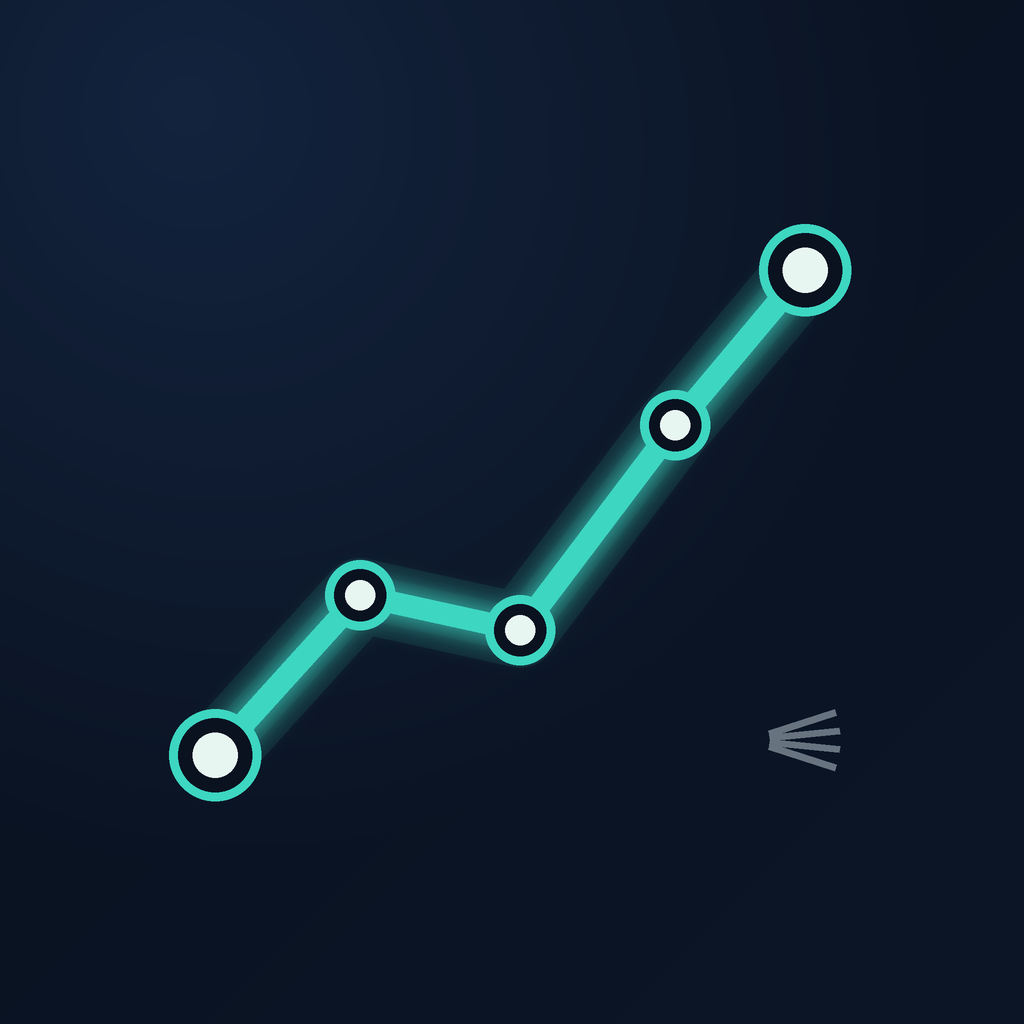
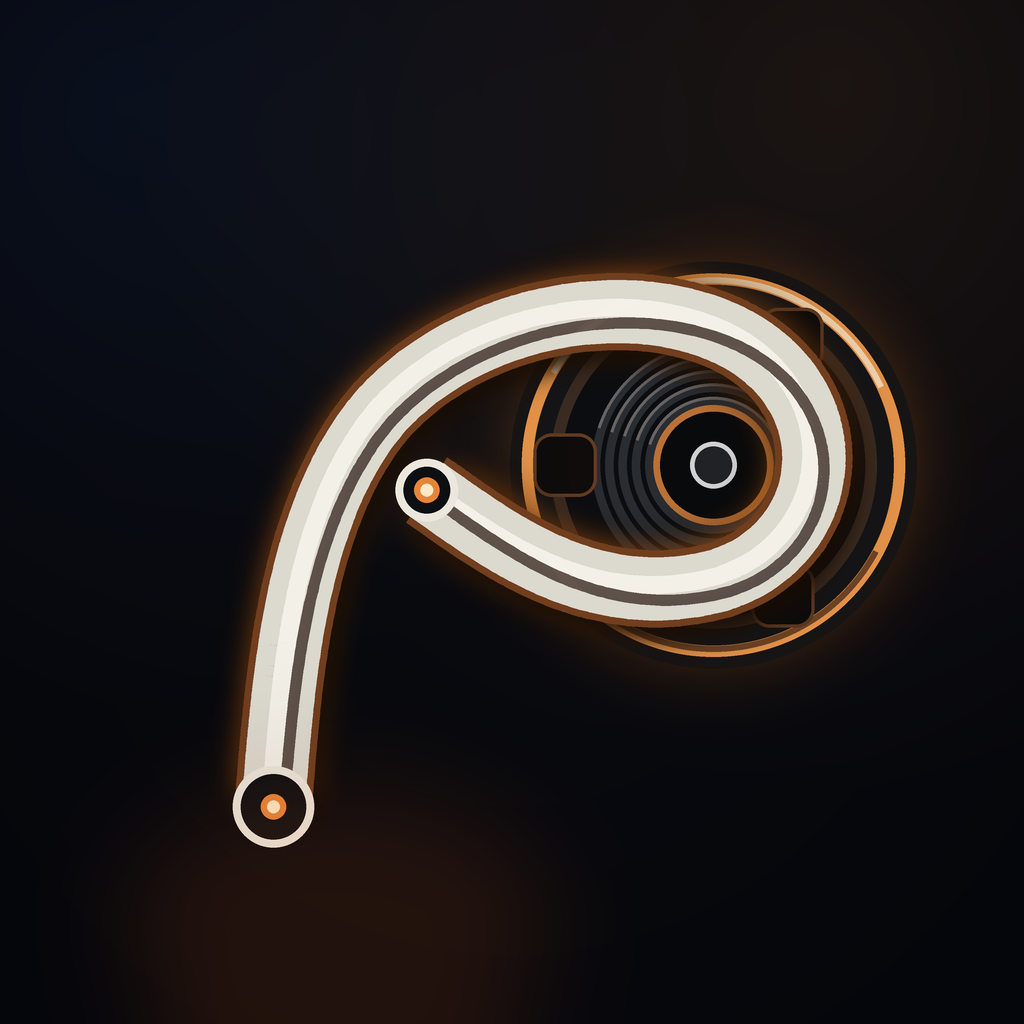
Align web branding with premium identity

diff --git a/site/styles.css b/site/styles.css
@@ -1,1 +1,1 @@
-:root{--bg:#0b1115;--panel:#111a20;--line:#24323a;--text:#f3f7f8;--muted:#9fb0b8;--accent:#39d4c2;--accent2:#8bf0e2;--max:1040px}*{box-sizing:border-box}html{scroll-behavior:smooth}body{margin:0;font-family:-apple-system,BlinkMacSystemFont,"SF Pro Text","Segoe UI",sans-serif;background:radial-gradient(circle at 80% 0,#16333a 0,transparent 34%),var(--bg);color:var(--text);line-height:1.58}.wrap{width:min(var(--max),calc(100% - 40px));margin:auto}.nav{display:flex;align-items:center;justify-content:space-between;padding:24px 0}.brand{display:flex;align-items:center;gap:12px;font-weight:750;letter-spacing:-.02em}.brand img{width:42px;height:42px;border-radius:11px}.navlinks{display:flex;gap:18px;flex-wrap:wrap}.nav a,.footer a,.legal a{color:var(--muted);text-decoration:none}.nav a:hover,.footer a:hover,.legal a:hover{color:var(--text)}.hero{padding:72px 0 82px;display:grid;grid-template-columns:1.2fr .8fr;gap:56px;align-items:center}.eyebrow{color:var(--accent2);font-weight:700;text-transform:uppercase;font-size:.78rem;letter-spacing:.14em}.hero h1{font-size:clamp(3rem,8vw,6.4rem);line-height:.9;letter-spacing:-.065em;margin:.2em 0}.hero p{font-size:1.18rem;color:var(--muted);max-width:680px}.pill{display:inline-flex;border:1px solid var(--line);background:#111d22;padding:10px 14px;border-radius:999px;color:#c7d7dc;font-size:.92rem;margin-top:14px}.device{aspect-ratio:4/5;border:1px solid #2b414a;border-radius:38px;background:linear-gradient(160deg,#14242b,#0b1115);padding:16px;box-shadow:0 30px 80px #0008}.screen{height:100%;border-radius:27px;background:linear-gradient(#142027,#0e1519);border:1px solid #26363e;padding:28px;display:flex;flex-direction:column;justify-content:space-between}.route{display:flex;gap:12px;align-items:center}.dot{width:14px;height:14px;border:3px solid var(--accent);border-radius:50%;box-shadow:0 0 20px #39d4c266}.segment{height:3px;flex:1;background:linear-gradient(90deg,var(--accent),#4e7b80);border-radius:8px}.metric strong{display:block;font-size:2.8rem;letter-spacing:-.05em}.metric span{color:var(--muted)}.grid{display:grid;grid-template-columns:repeat(3,1fr);gap:18px;padding:20px 0 70px}.card{background:linear-gradient(180deg,#111a20,#0d1519);border:1px solid var(--line);border-radius:22px;padding:26px}.card h2{margin:.2em 0 .45em;font-size:1.18rem}.card p{margin:0;color:var(--muted)}.section{padding:70px 0;border-top:1px solid var(--line)}.section h2{font-size:clamp(2rem,4vw,3.4rem);letter-spacing:-.045em;margin:0 0 18px}.section p{max-width:780px;color:var(--muted)}.footer{border-top:1px solid var(--line);padding:30px 0 46px;color:var(--muted);display:flex;justify-content:space-between;gap:18px;flex-wrap:wrap}.legal{padding:24px 0 70px;max-width:820px}.legal h1{font-size:clamp(2.2rem,5vw,4.4rem);letter-spacing:-.05em;line-height:1;margin:44px 0 20px}.legal h2{margin-top:34px}.legal p,.legal li{color:#bac8cd}.notice{background:#111d22;border:1px solid #2b414a;border-left:3px solid var(--accent);border-radius:14px;padding:18px 20px;margin:28px 0}.lang{font-size:.9rem;color:var(--muted)}hr{border:0;border-top:1px solid var(--line);margin:44px 0}@media(max-width:760px){.hero{grid-template-columns:1fr;padding-top:38px}.device{max-width:420px}.grid{grid-template-columns:1fr}.nav{align-items:flex-start}.navlinks{justify-content:flex-end;font-size:.9rem}.hero h1{font-size:3.6rem}}
+:root{--bg:#08090c;--panel:#121217;--line:#302a26;--text:#f7f4ef;--muted:#aca59d;--accent:#f09a4a;--accent2:#ffd2a2;--max:1040px}*{box-sizing:border-box}html{scroll-behavior:smooth}body{margin:0;font-family:-apple-system,BlinkMacSystemFont,"SF Pro Text","Segoe UI",sans-serif;background:radial-gradient(circle at 80% 0,#3a2418 0,transparent 36%),var(--bg);color:var(--text);line-height:1.58}.wrap{width:min(var(--max),calc(100% - 40px));margin:auto}.nav{display:flex;align-items:center;justify-content:space-between;padding:24px 0}.brand{display:flex;align-items:center;gap:12px;font-weight:750;letter-spacing:-.02em}.brand img{width:42px;height:42px;border-radius:11px}.navlinks{display:flex;gap:18px;flex-wrap:wrap}.nav a,.footer a,.legal a{color:var(--muted);text-decoration:none}.nav a:hover,.footer a:hover,.legal a:hover{color:var(--text)}.hero{padding:72px 0 82px;display:grid;grid-template-columns:1.2fr .8fr;gap:56px;align-items:center}.eyebrow{color:var(--accent2);font-weight:700;text-transform:uppercase;font-size:.78rem;letter-spacing:.14em}.hero h1{font-size:clamp(3rem,8vw,6.4rem);line-height:.9;letter-spacing:-.065em;margin:.2em 0}.hero p{font-size:1.18rem;color:var(--muted);max-width:680px}.pill{display:inline-flex;border:1px solid var(--line);background:#17130f;padding:10px 14px;border-radius:999px;color:#e8ddd2;font-size:.92rem;margin-top:14px}.device{aspect-ratio:4/5;border:1px solid #443126;border-radius:38px;background:linear-gradient(160deg,#211712,#090a0d);padding:16px;box-shadow:0 30px 80px #0008}.screen{height:100%;border-radius:27px;background:linear-gradient(#1c1511,#0d0d10);border:1px solid #3b2a22;padding:28px;display:flex;flex-direction:column;justify-content:space-between}.route{display:flex;gap:12px;align-items:center}.dot{width:14px;height:14px;border:3px solid var(--accent);border-radius:50%;box-shadow:0 0 20px #f09a4a66}.segment{height:3px;flex:1;background:linear-gradient(90deg,var(--accent),#7b5137);border-radius:8px}.metric strong{display:block;font-size:2.8rem;letter-spacing:-.05em}.metric span{color:var(--muted)}.grid{display:grid;grid-template-columns:repeat(3,1fr);gap:18px;padding:20px 0 70px}.card{background:linear-gradient(180deg,#161310,#0d0d10);border:1px solid var(--line);border-radius:22px;padding:26px}.card h2{margin:.2em 0 .45em;font-size:1.18rem}.card p{margin:0;color:var(--muted)}.section{padding:70px 0;border-top:1px solid var(--line)}.section h2{font-size:clamp(2rem,4vw,3.4rem);letter-spacing:-.045em;margin:0 0 18px}.section p{max-width:780px;color:var(--muted)}.footer{border-top:1px solid var(--line);padding:30px 0 46px;color:var(--muted);display:flex;justify-content:space-between;gap:18px;flex-wrap:wrap}.legal{padding:24px 0 70px;max-width:820px}.legal h1{font-size:clamp(2.2rem,5vw,4.4rem);letter-spacing:-.05em;line-height:1;margin:44px 0 20px}.legal h2{margin-top:34px}.legal p,.legal li{color:#c9c0b8}.notice{background:#17130f;border:1px solid #443126;border-left:3px solid var(--accent);border-radius:14px;padding:18px 20px;margin:28px 0}.lang{font-size:.9rem;color:var(--muted)}hr{border:0;border-top:1px solid var(--line);margin:44px 0}@media(max-width:760px){.hero{grid-template-columns:1fr;padding-top:38px}.device{max-width:420px}.grid{grid-template-columns:1fr}.nav{align-items:flex-start}.navlinks{justify-content:flex-end;font-size:.9rem}.hero h1{font-size:3.6rem}}
